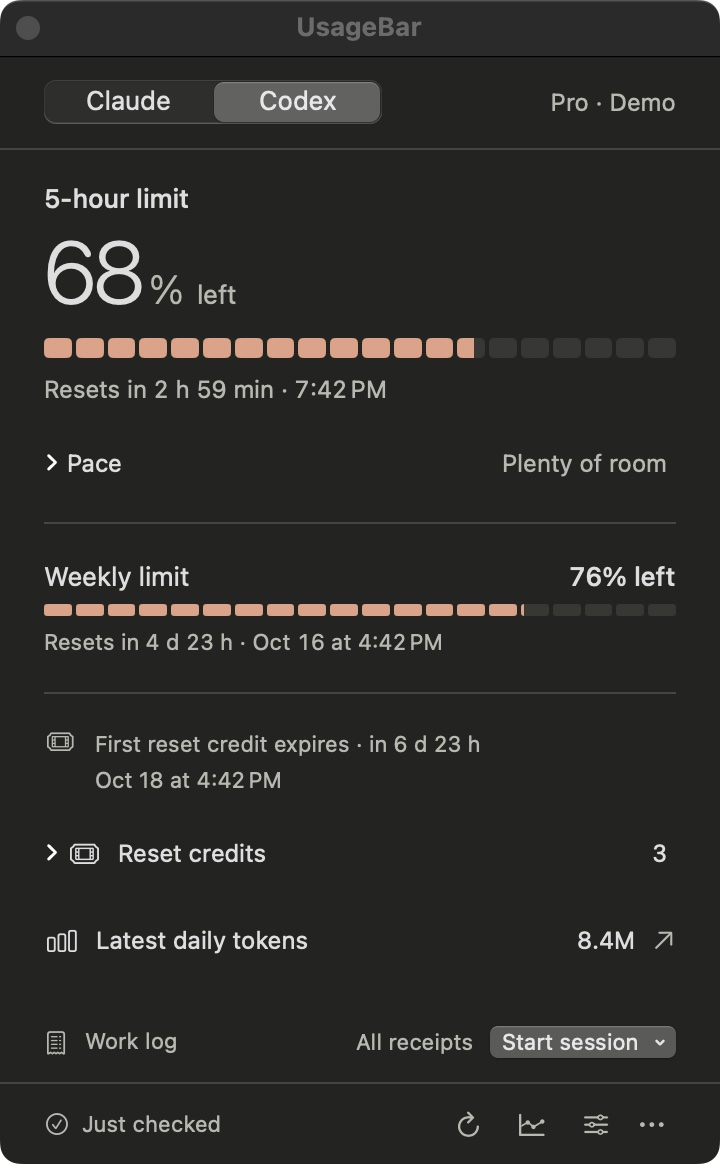
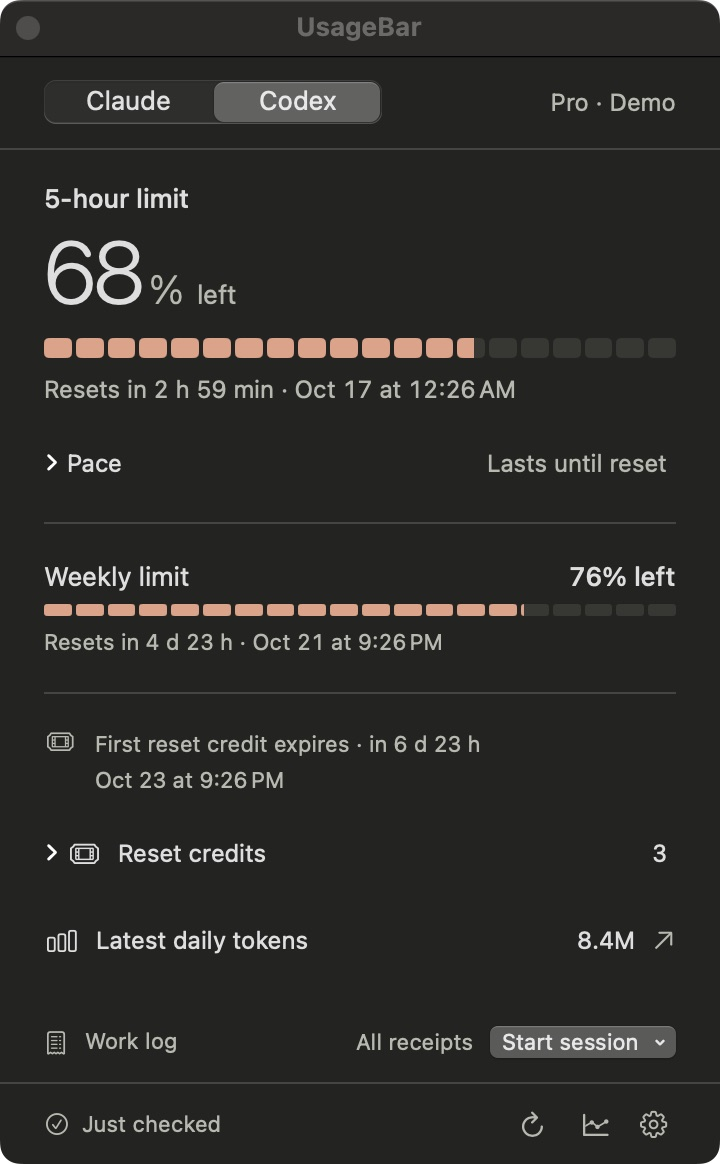
Re-record the README GIFs and screenshots for the current UI
New receipts shots show the 7-day summary; the Codex panel shot shows
the gear footer and the run-out headline. The demo session now starts
at 22% weekly, so the receipt reads +2%p weekly against +10%p for the
5-hour window instead of an implausible +14%p.

diff --git a/Sources/UsageBar/WorkJournalController.swift b/Sources/UsageBar/WorkJournalController.swift
@@ -162,7 +162,8 @@ final class WorkJournalController: ObservableObject {
         let now = Date()
         let start = now.addingTimeInterval(-47 * 60)
         let snapshot = ProviderSnapshot(provider: .claude, accountKey: "demo-only", plan: String(localized: "Max · 예시"),
-            windows: [UsageWindow(id: "weekly", label: String(localized: "주간 한도"), usedPercent: 10,
+            // 22% → 24% weekly against 22% → 32% for the 5-hour window: a longer window moves less.
+            windows: [UsageWindow(id: "weekly", label: String(localized: "주간 한도"), usedPercent: 22,
                                   resetsAt: now.addingTimeInterval(5 * 86_400), durationMinutes: 10_080),
                       UsageWindow(id: "session", label: String(localized: "5시간 한도"), usedPercent: 22,
                                   resetsAt: now.addingTimeInterval(3 * 3_600), durationMinutes: 300)],

diff --git a/README.ko.md b/README.ko.md
@@ -46,12 +46,12 @@
 - **한국어와 영어.** 시스템 언어를 따릅니다.
 
 <p align="center">
-  <img src="docs/images/receipts-ko.jpg" width="31%" alt="작업 영수증 창: 진행 중인 작업 카드와 완료된 영수증 목록" />
+  <img src="docs/images/receipts-ko.jpg" width="31%" alt="작업 영수증 창: 시작 카드, 서비스별 한도 합계가 담긴 최근 7일 요약, 완료된 영수증" />
   <img src="docs/images/panel-codex-ko.jpg" width="31%" alt="Codex 패널: 한도 게이지, 초기화권 수와 만료, 최근 일별 토큰" />
   <img src="docs/images/history-ko.jpg" width="31%" alt="사용 기록 창: 잔여 한도 추이 차트, 기간 선택, CSV 내보내기" />
 </p>
 
-<p align="center"><sub>작업 영수증 · Codex 패널 · 사용 기록. 모든 스크린샷은 예시 데이터입니다.</sub></p>
+<p align="center"><sub>주간 요약이 있는 작업 영수증 · Codex 패널 · 사용 기록. 모든 스크린샷은 예시 데이터입니다.</sub></p>
 
 ## 설치
 

diff --git a/README.md b/README.md
@@ -46,12 +46,12 @@
 - **English and Korean.** Follows your system language.
 
 <p align="center">
-  <img src="docs/images/receipts-en.jpg" width="31%" alt="Receipts window: active session card and finished receipts" />
+  <img src="docs/images/receipts-en.jpg" width="31%" alt="Receipts window: start card, last 7 days summary with limit totals by service, and finished receipts" />
   <img src="docs/images/panel-codex-en.jpg" width="31%" alt="Codex panel: limit gauges, reset credits with expiry, latest daily tokens" />
   <img src="docs/images/history-en.jpg" width="31%" alt="History window: remaining limit over time, period picker, CSV export" />
 </p>
 
-<p align="center"><sub>Receipts · Codex panel · History. All screenshots use demo data.</sub></p>
+<p align="center"><sub>Receipts with the weekly summary · Codex panel · History. All screenshots use demo data.</sub></p>
 
 ## Install
 
